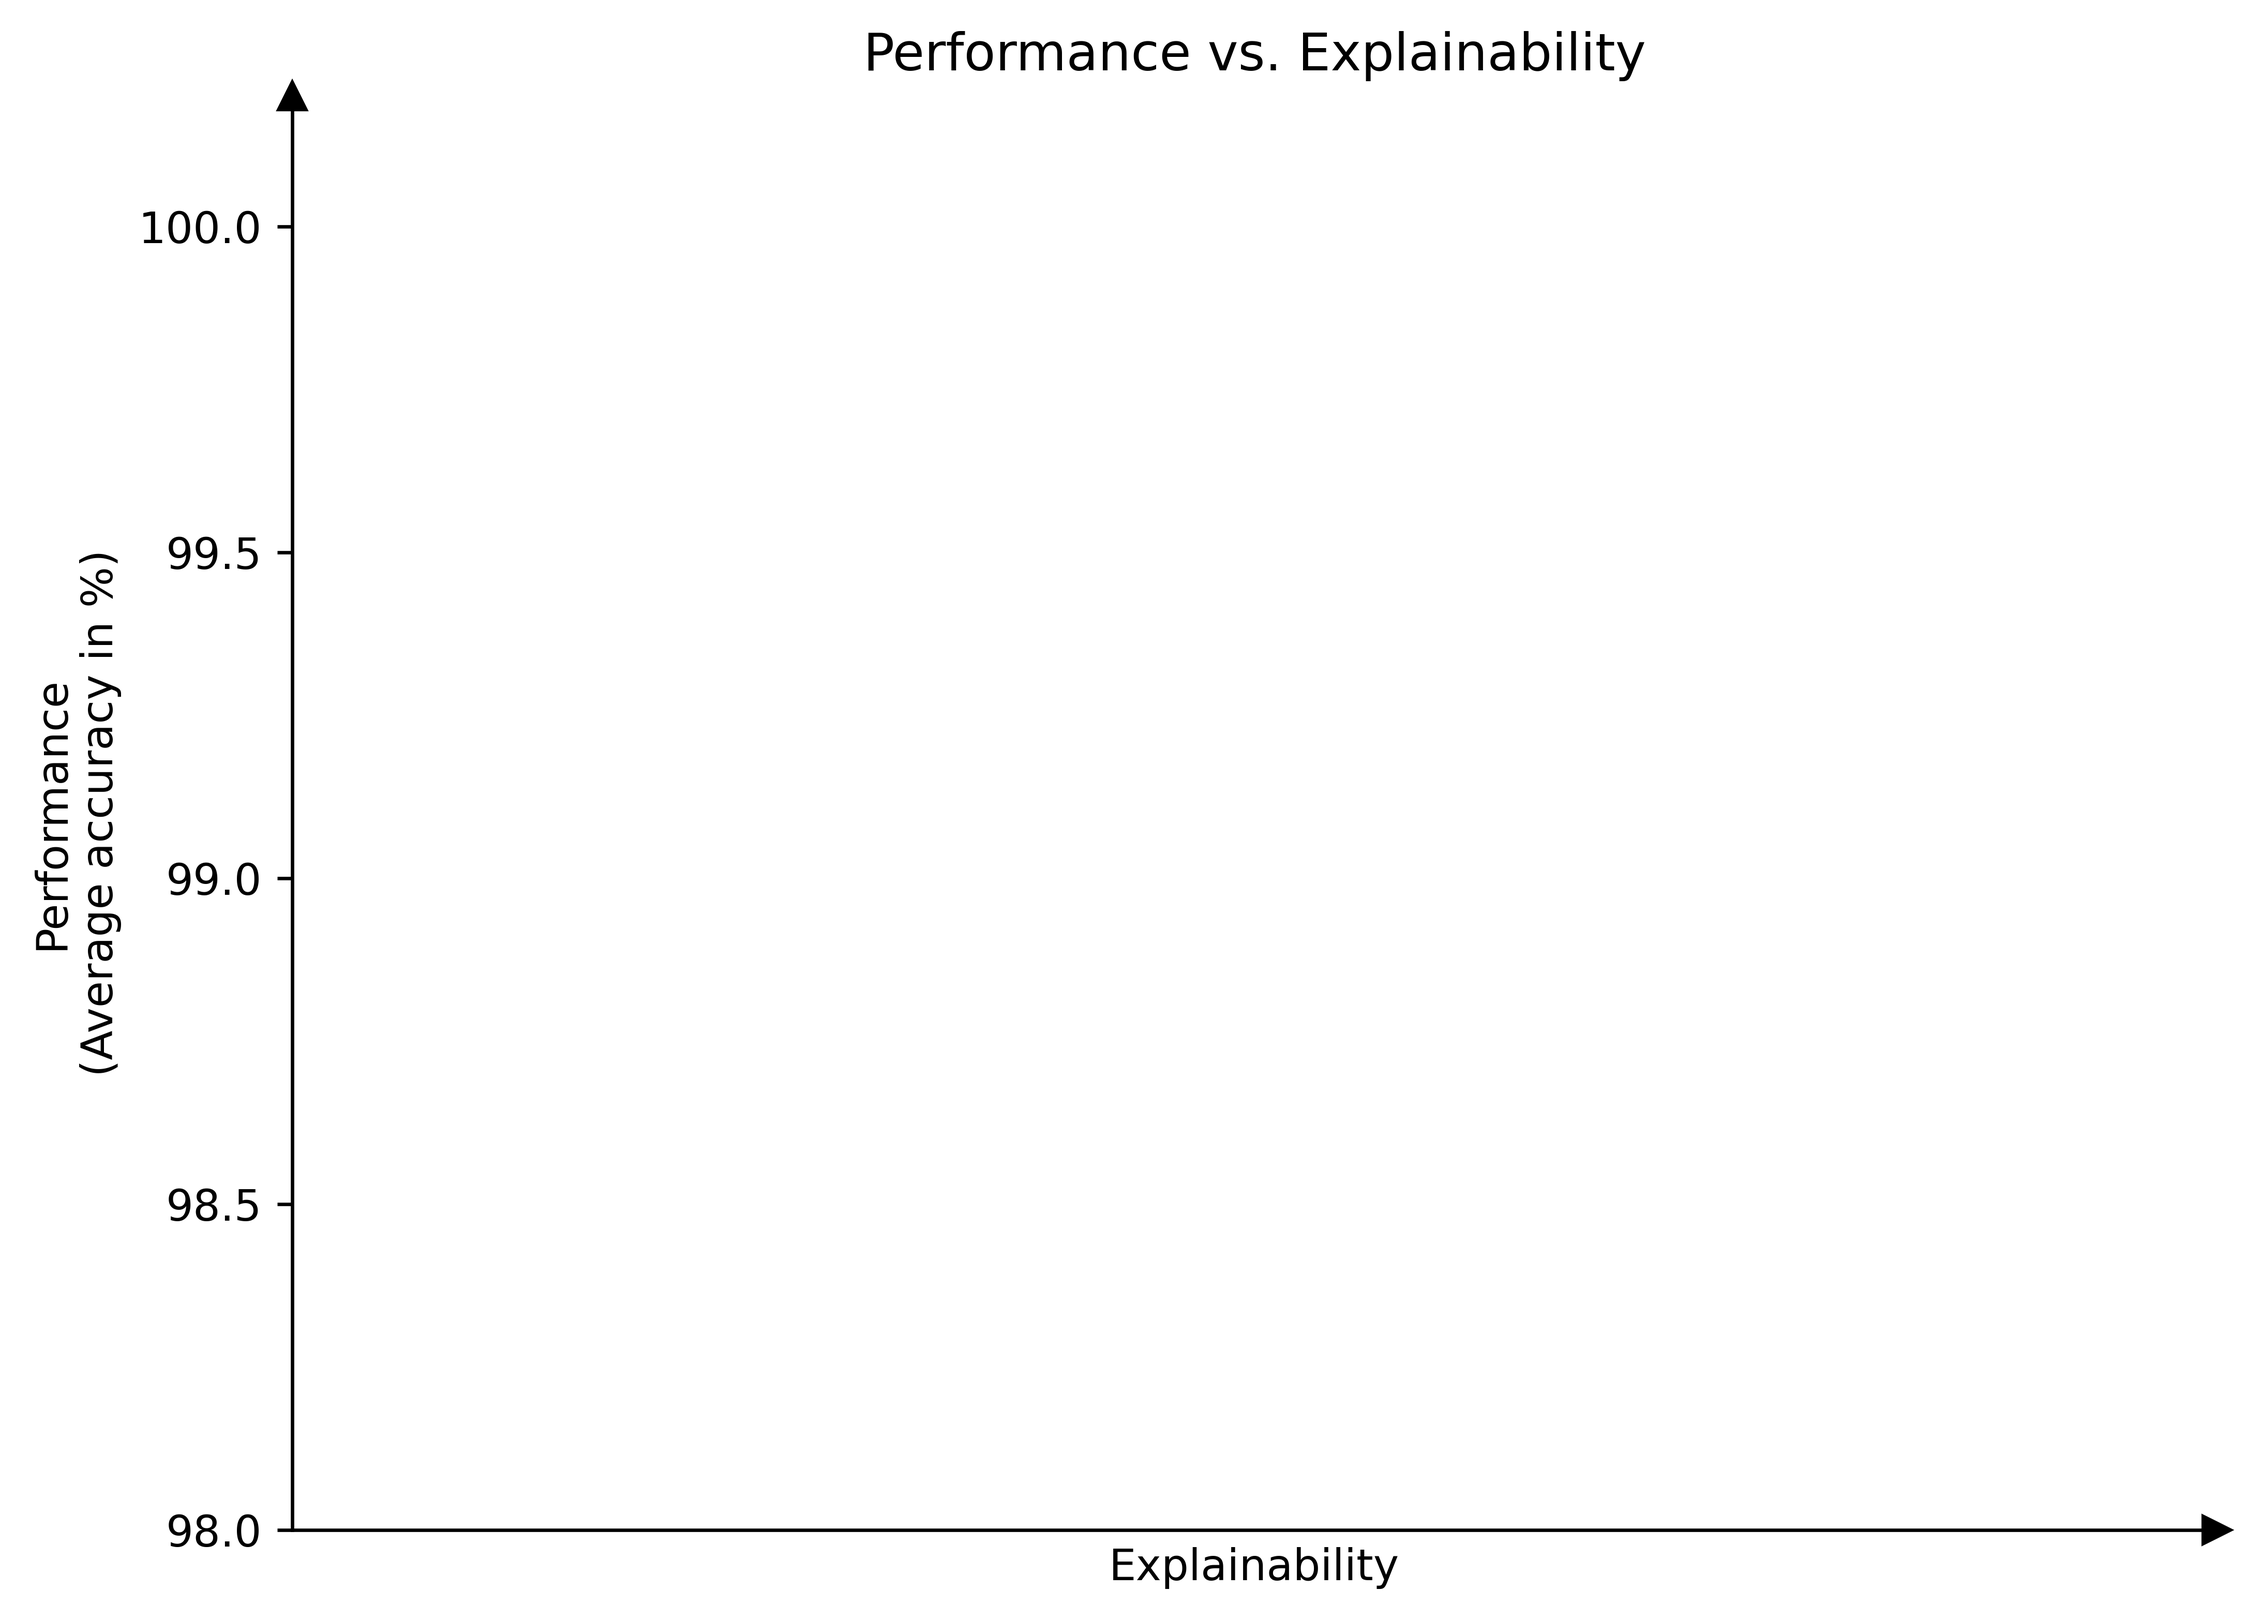
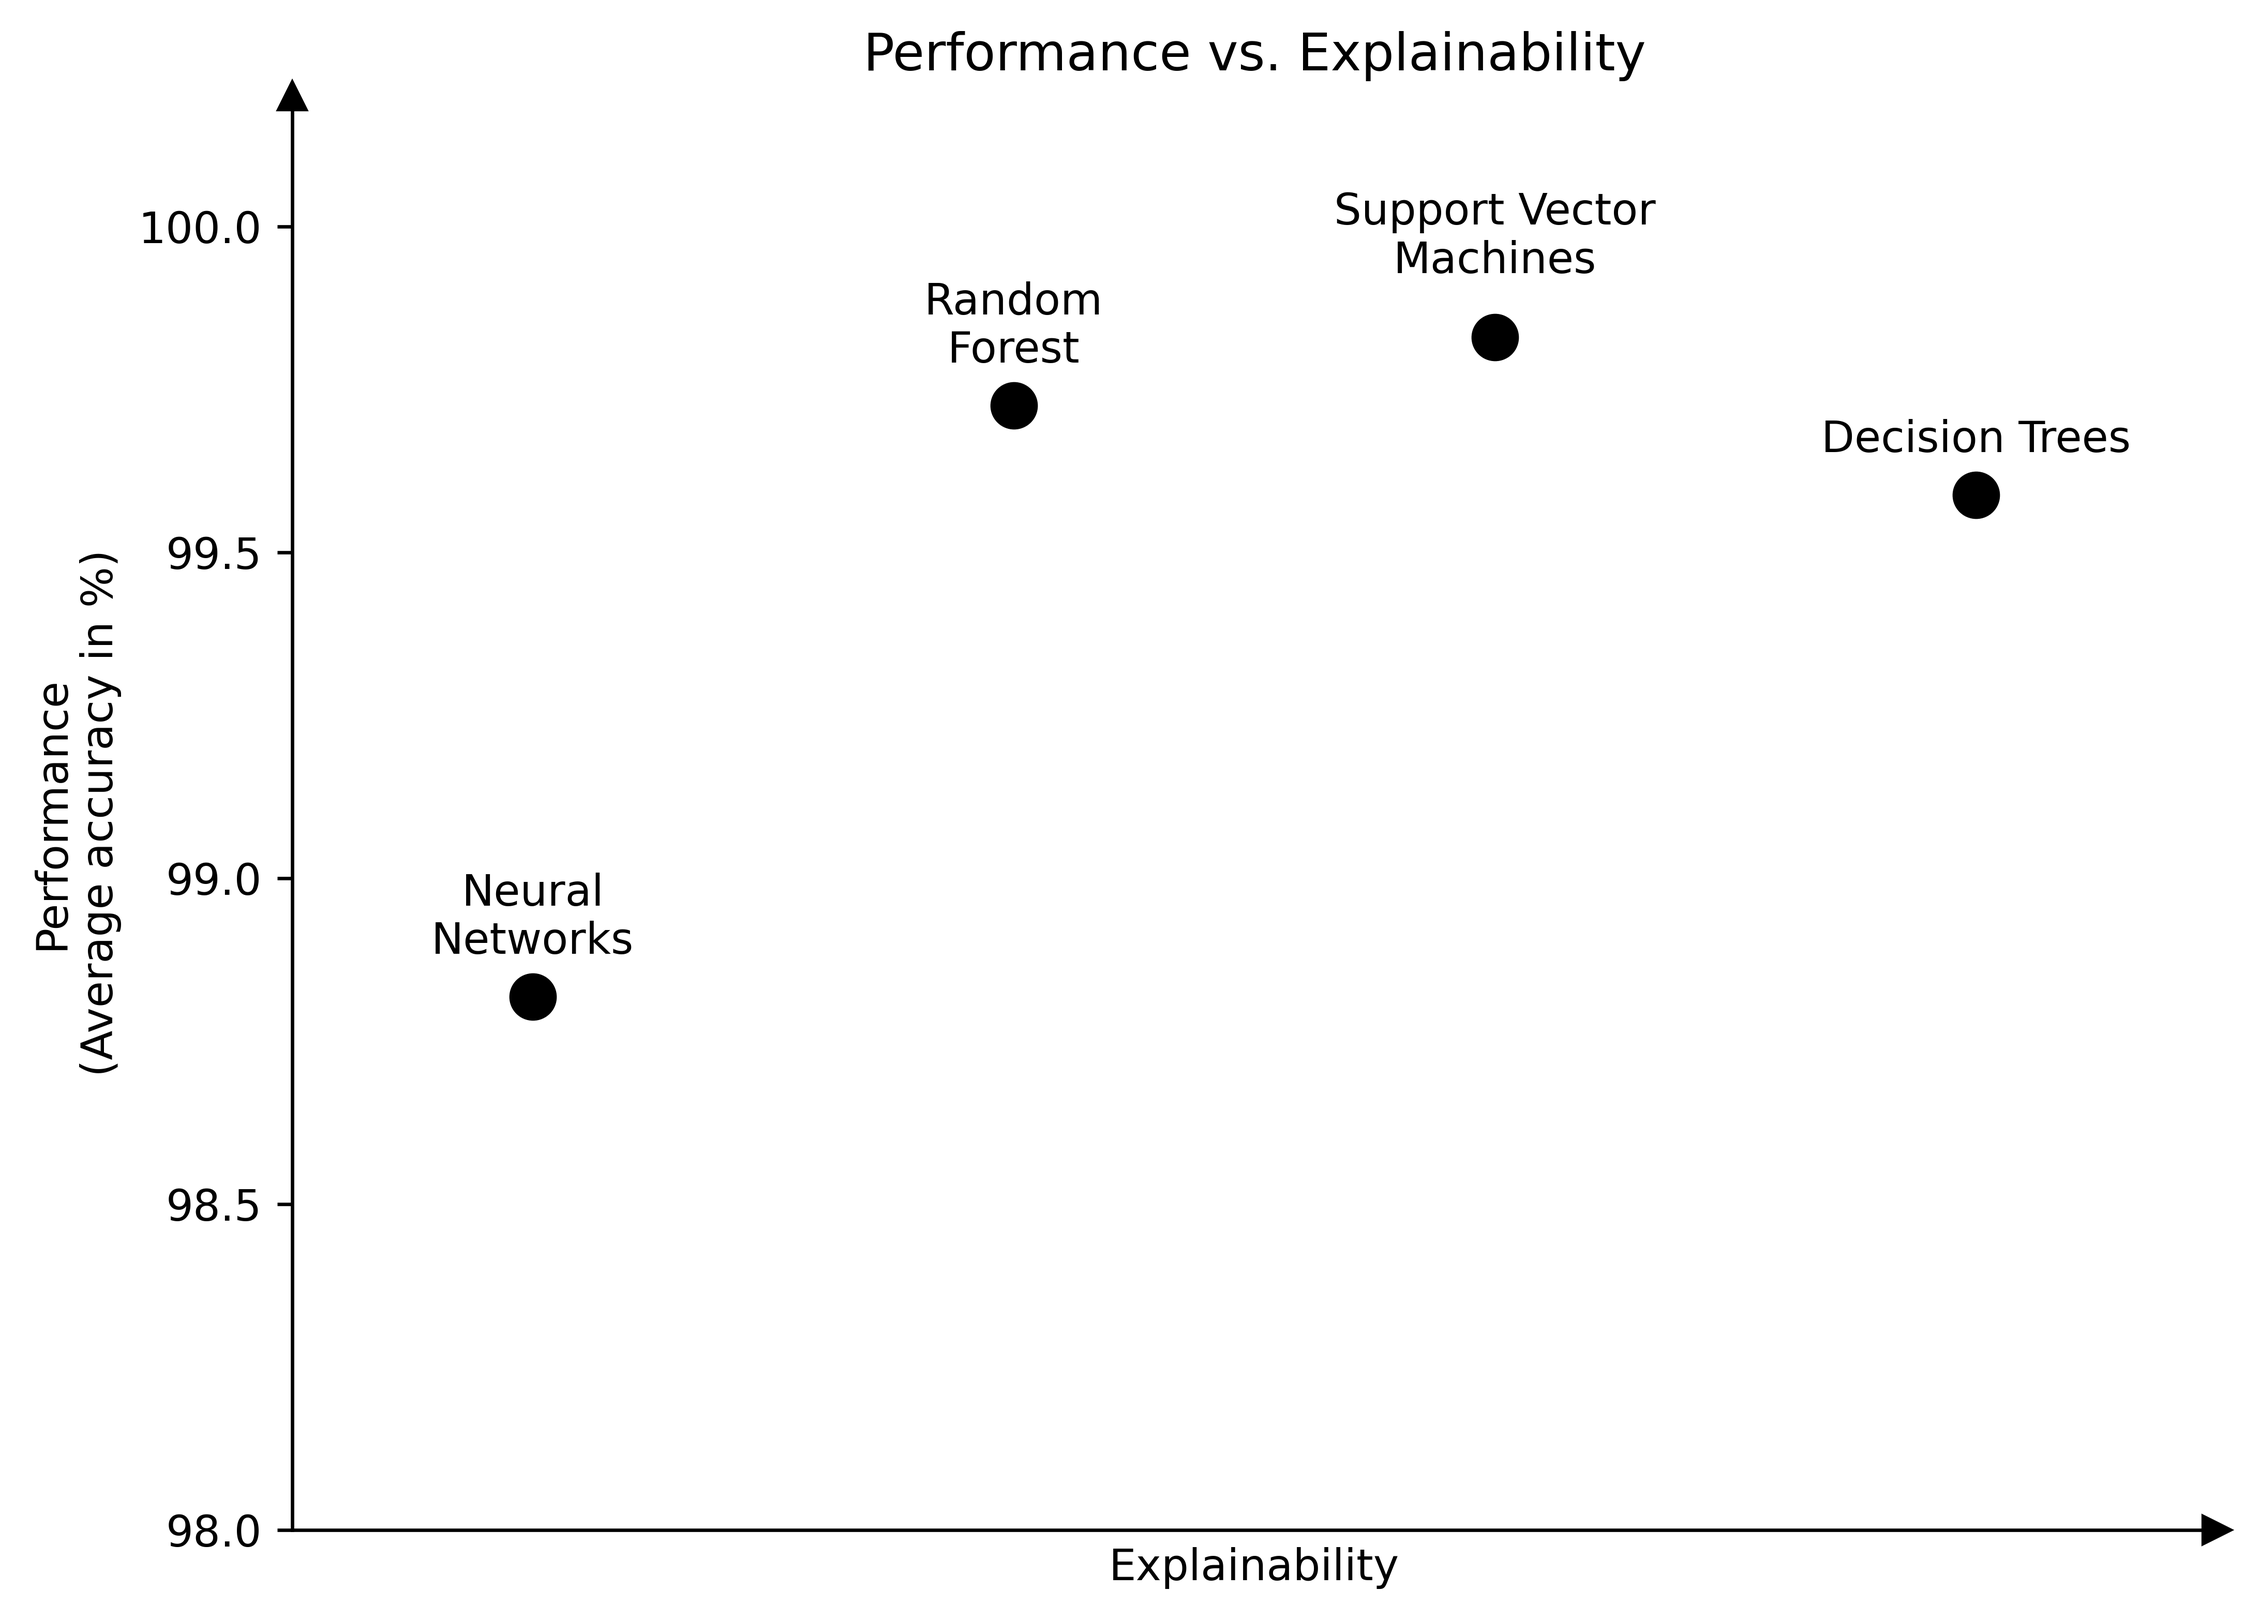
Added Herm-like Plot Performance vs. Explainability

diff --git a/Scripts/analysis/Visualisation.py b/Scripts/analysis/Visualisation.py
@@ -538,10 +538,11 @@ def run_t_testsANDcreate_visualisations():
     
     #Create list with avg. accuracy values
     #!Different ordering! Orderd according to Herm LR excluded as not useable for PV detection.
-    performance_list=[np.mean(acc_NN_A),
-                      np.mean(acc_RF_A),
-                      np.mean(acc_SVM_A),
-                      np.mean(acc_DT_A)]
+    performance_list=[np.mean(acc_NN_A)*100,
+                      np.mean(acc_RF_A)*100,
+                      np.mean(acc_SVM_A)*100,
+                      np.mean(acc_DT_A)*100]
+    #*100 to create %-values! so 99.58 etc.
     
     plot_herm_like_figure(performance_list,show_plot=False,to_file="FINAL")
     
